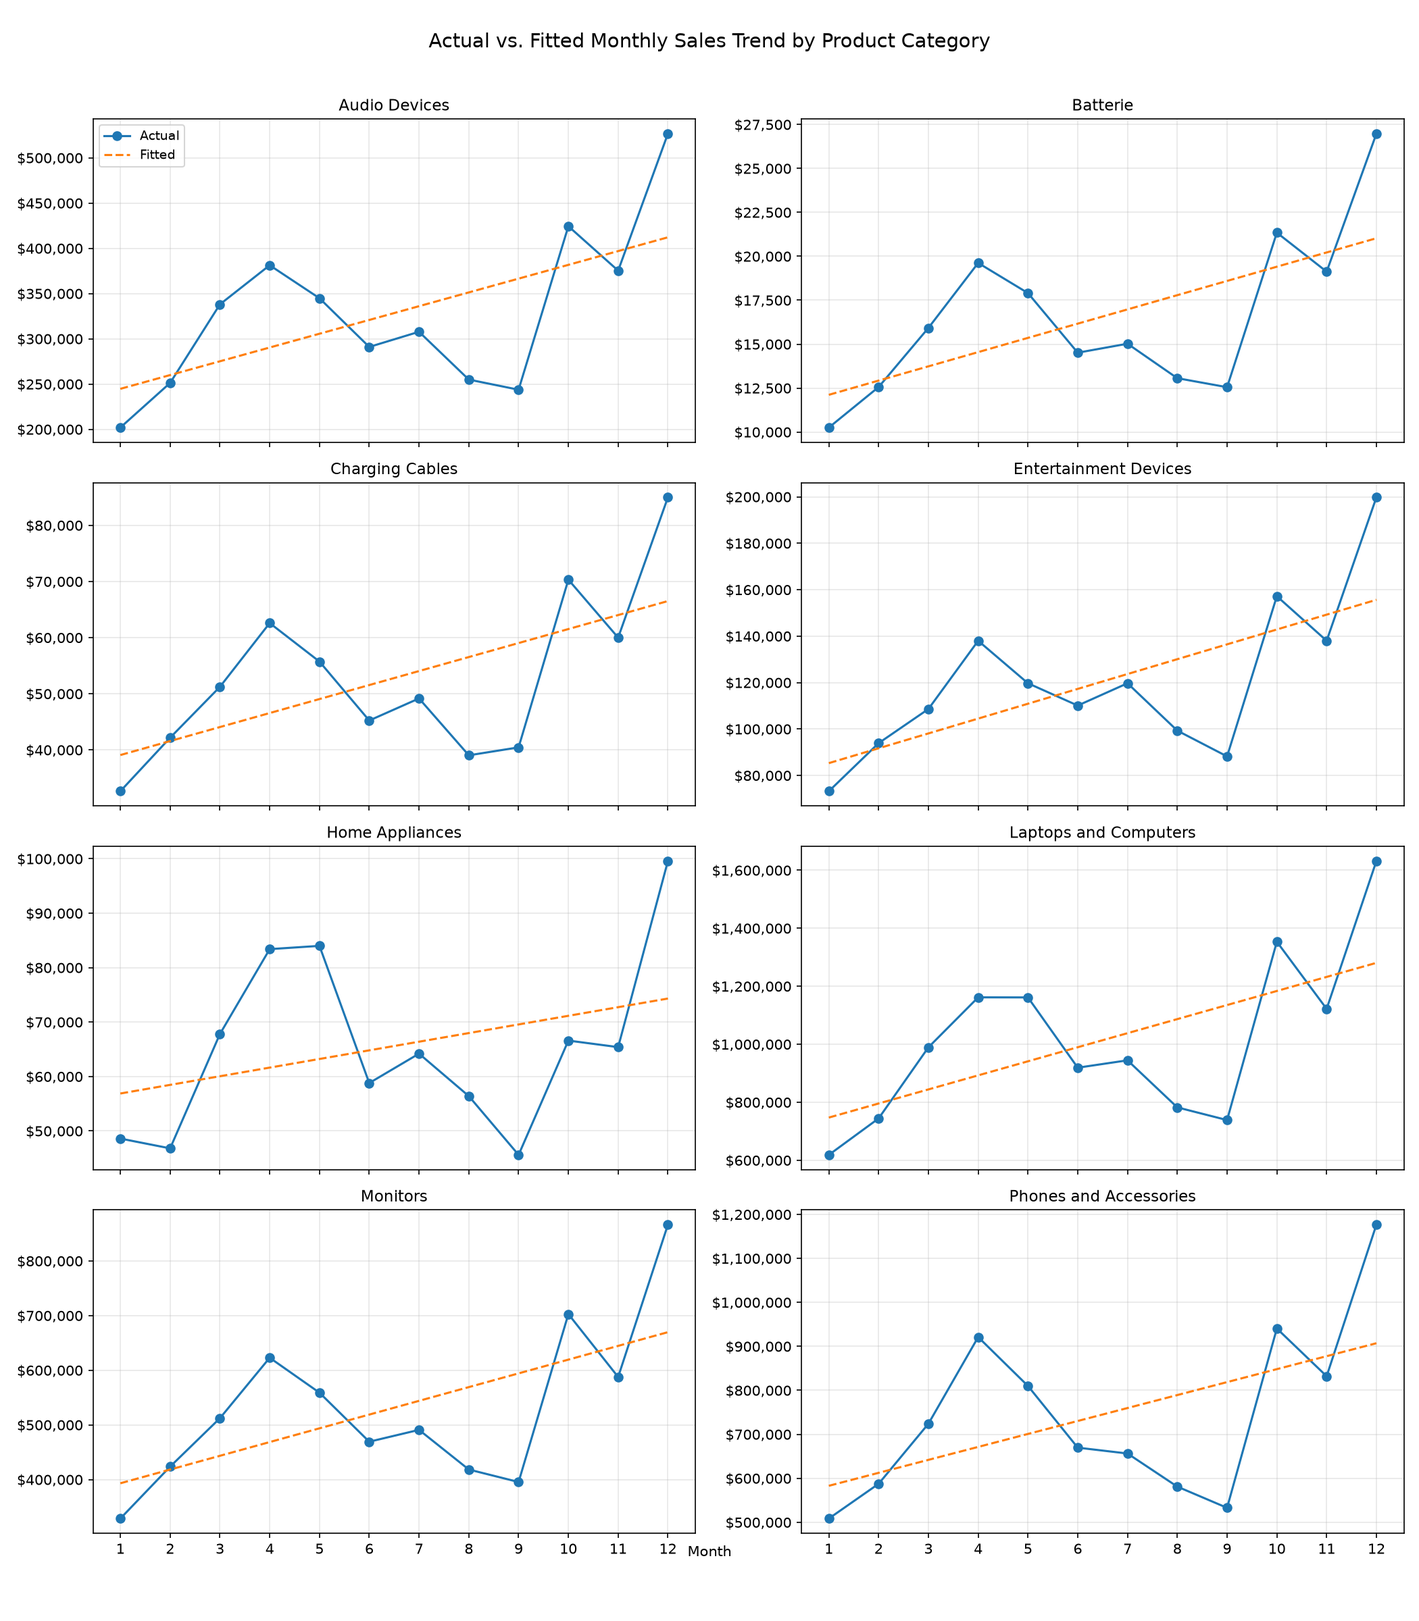
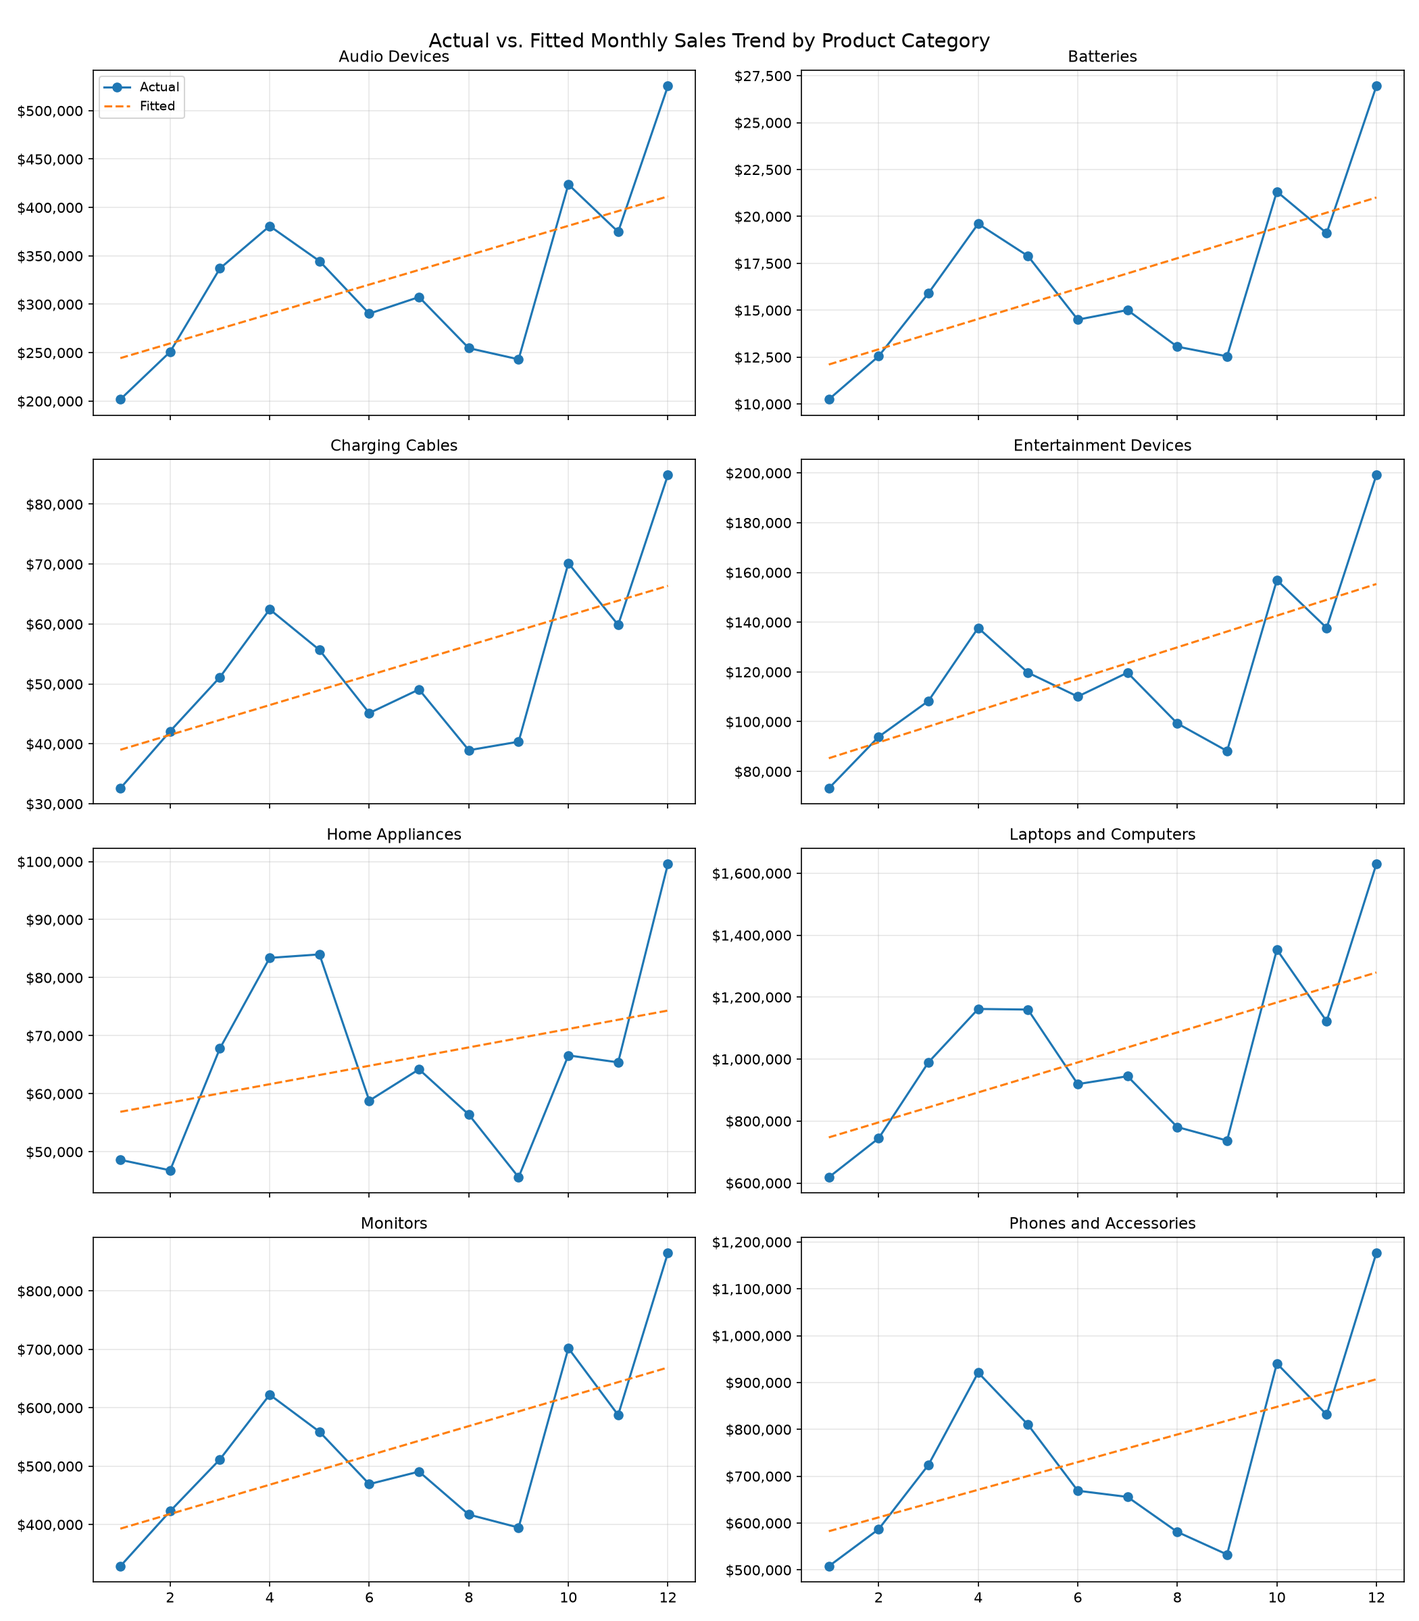
Refactor trend helpers, data-quality report, seasonality check, flake8, README results

diff --git a/tests/test_sales_analysis.py b/tests/test_sales_analysis.py
@@ -98,8 +98,7 @@ def test_filter_by_city(clean_df):
 
 
 def _make_trend_test_rows():
-    """Three months of data for two categories, trending in opposite directions,
-    to test monthly_category_trends:
+    """Three months of data for two categories, trending in opposite directions, to test monthly_category_trends:
     - Laptops: Sales rising 500, 1000, 1500 (positive slope)
     - Batteries: Sales falling 300, 200, 100 (negative slope)
     """
@@ -144,8 +143,7 @@ def test_monthly_category_trends(trend_df):
 @pytest.fixture
 def sample_csv(tmp_path):
     """Writes a small CSV to disk and returns its path.
-    run_full_analysis reads this instead of 'Sales Data.csv' so this test never touches
-    kagglehub or the network.
+    run_full_analysis reads this instead of 'Sales Data.csv' so this test never touches kagglehub or the network.
     """
     rows = [
         {
@@ -259,8 +257,7 @@ def boundary_orders_df():
 
 
 def test_filter_high_value_orders_boundary(boundary_orders_df):
-    """Edge case: the threshold is (Sales > 500), so an order of exactly $500
-    must be excluded, while $500.01 is kept."""
+    """Edge case: the threshold is (Sales > 500), so an order of exactly $500 must be excluded, while $500.01 is kept."""
     high_value = filter_high_value_orders(boundary_orders_df, threshold=500)
 
     assert list(high_value["Order ID"]) == [3]
@@ -308,8 +305,8 @@ def test_empty_dataframe(empty_raw_df):
 
 def test_clean_data_fixes_category_typo_and_drops_duplicates(raw_df):
     """The raw data spells one category "Batterie"; cleaning should fix it.
-    An exact duplicate row (same line item recorded twice) should be dropped,
-    even though its leftover "Unnamed: 0" index value differs."""
+    An exact duplicate row (same line item recorded twice) should be dropped, even though its leftover "Unnamed: 0" index value differs.
+    """
     raw = raw_df.copy()
     raw.loc[1, "Product Category"] = "Batterie"
     duplicate = raw.iloc[[0]].copy()
@@ -369,8 +366,7 @@ def test_data_quality_report(messy_raw_df):
 
 
 def test_seasonality_check_separates_holiday_spike():
-    """Flat sales all year plus a December spike: the all-months trend looks
-    like growth, but excluding December the slope is ~0."""
+    """Flat sales all year plus a December spike: the all-months trend looks like growth, but excluding December the slope is ~0."""
     flat = [
         {"Product Category": "Monitors", "Month": m, "Sales": 1000}
         for m in range(1, 12)

diff --git a/sales_analysis.py b/sales_analysis.py
@@ -18,12 +18,6 @@ from sklearn.linear_model import LinearRegression
 # Format of "Order Date" in the raw Kaggle CSV (day-month-year hour:minute)
 DATE_FORMAT = "%d-%m-%Y %H:%M"
 
-# Known typos in the raw "Product Category" column -> corrected name
-CATEGORY_FIXES = {"Batterie": "Batteries"}
-
-# Holiday month(s) excluded in the seasonality check (December = 12)
-HOLIDAY_MONTHS = (12,)
-
 
 # ---------------------------------------------------------------------------
 # Loading, cleaning, data quality
@@ -98,7 +92,10 @@ def clean_data(df):
     # "05-12-2019" from being misread as May 12 instead of 5 December.
     df["Order Date"] = pd.to_datetime(df["Order Date"], format=DATE_FORMAT)
     df["City"] = df["City"].str.strip()
-    df["Product Category"] = df["Product Category"].str.strip().replace(CATEGORY_FIXES)
+    # the raw data misspells one category as "Batterie"
+    df["Product Category"] = (
+        df["Product Category"].str.strip().replace({"Batterie": "Batteries"})
+    )
     return df
 
 
@@ -209,11 +206,12 @@ def monthly_category_trends_extended(df):
     )
 
 
-def seasonality_check(df, exclude_months=HOLIDAY_MONTHS):
+def seasonality_check(df, exclude_months=(12,)):
     """Is each category's growth real, or just the holiday spike?
 
-    Refits the Sales ~ Month trend with and without the holiday month(s) and
-    reports R^2, so a reader can see how much of the "growth" December explains.
+    Refits the Sales ~ Month trend with and without the holiday month(s)
+    (December by default) and reports R^2, so a reader can see how much of the
+    "growth" December explains.
     """
     monthly = _monthly_by_category(df)
     results = []

diff --git a/README.md b/README.md
@@ -1,44 +1,102 @@
 [![Tests](https://github.com/QTTN1/IDS_706_dpf_demo/actions/workflows/tests.yml/badge.svg)](https://github.com/QTTN1/IDS_706_dpf_demo/actions/workflows/tests.yml)
 
-My data engineering project using pandas to explore a sales dataset from Kaggle.
+# Which product categories are actually growing?
+
+An analysis of one year of e-commerce electronics sales (Kaggle), built as a tested, linted, containerized Python project.
+
+## Main Questions:
+
+1. Which categories bring in the revenue, and which bring in just order volume?
+2. Which categories are growing each month (linear trend of sales, orders, and average order value)?
+3. Is that growth real, or mostly the holiday spike?
+
+## Dataset
+
+[Sales Dataset (E-Commerce Sales)](https://www.kaggle.com/datasets/naofilahmad/sales-datset-product-sample) from Kaggle: ~186k order line items, 8 product categories, 9 US cities, 12 months of 2019. 
 
 ## Setup
 
 ```
-pip install -r requirements.txt
+pip install -r requirements.txt     # Python 3.12; versions are pinned for reproducibility
+python sales_analysis.py            # downloads the data, prints all results, saves plots to output/
+pytest tests/ -v                    # run the tests
 ```
 
-(Python 3.12. I use a conda env, but any environment works as long as `requirements.txt` is installed.)
+Or with Docker, no Python setup needed (see [Docker](#docker)).
 
-Then open `Week2_Mini_Assignment.ipynb` and run all the cells -- it downloads the dataset automatically with kagglehub, so no manual download needed. (To run the tests instead, see the Testing & CI section below.)
+`Week2_Mini_Assignment.ipynb` is the original exploratory notebook. `sales_analysis.py` is the cleaned-up, tested version.
 
-## Dataset
+## Project structure
 
-[Sales Dataset (E-Commerce Sales)](https://www.kaggle.com/datasets/naofilahmad/sales-datset-product-sample) from Kaggle. ~186k orders, 8 product categories, 9 cities, 1 year (12 months) of data.
+```
+sales_analysis.py          # all analysis code (load, quality report, clean, summarize, trend models, plots)
+tests/                     # pytest tests + screenshots
+conftest.py                # lets tests import sales_analysis from any directory
+requirements.txt           # pinned dependencies
+Dockerfile                 # container for running the analysis or tests
+.flake8                    # flake8 (linting) config
+.github/workflows/         # CI: black + flake8 + pytest on every push
+Week2_Mini_Assignment.ipynb  # original exploration
+```
 
-## What I did
+## Data cleaning
 
-**Import + Inspect**
+`data_quality_report()` checks the **raw** data before anything is changed, and `clean_data()` applies the fixes. Running the script prints the report.
 
-Loaded the CSV with pandas, used `.head()`, `.info()`, `.describe()` to investigate, checked for missing values/duplicates (there weren't any). Dropped an extra blank column, and transformed Order Date to an actual date.
+| Check                     | Result                                                                                                | Treatment                                                                                                                                                                                             |
+| ------------------------- | ----------------------------------------------------------------------------------------------------- | ----------------------------------------------------------------------------------------------------------------------------------------------------------------------------------------------------- |
+| Missing values            | 0                                                                                                     | None found, nothing to fill or drop.                                                                                                                                                                  |
+| Exact duplicate rows      | 264                                                                                                   | Dropped, since the same line item recorded twice would double-count revenue (185,950 -> 185,686 rows). The CSV's leftover index column makes every row look unique, so it's dropped before checking. |
+| Sales != Quantity x Price | 0                                                                                                     | None found, so the Sales column can be trusted.                                                                                                                                                       |
+| Category renamed          | "Batterie"                                                                                            | Renamed to "Batteries" so it groups and reads correctly in charts.                                                                                                                                    |
+| Order Date                | day-first strings, e.g. 30-12-2019 00:01                                                              | Parsed with an explicit format, so 05-12-2019 is 5 Dec, not 12 May.                                                                                                                                   |
+| City                      | stray whitespace, e.g. " Boston"                                                                      | Stripped.                                                                                                                                                                                             |
+| Sales outliers            | 7,617 rows (~4%), mostly Charging Cables (3,332), Batteries (2,153), and Phones & Accessories (2,076) | Kept. Outliers are measured within each category (1.5 x IQR), because a $1,700 laptop is normal while a $1,700 battery order is not. Removing outliers would understate revenue.                    |
 
-**Filtering + Grouping**
+## Analysis
 
-Additional dataset investigation, and setup for the ML algorithm.
+**Revenue vs. volume.** Grouped by category: average price, total quantity, total sales, and line-item count (`category_summary`).
 
-I filtered things like high-value orders (Sales > $500) and orders from specific cities. Used `groupby()` to get avg price/total sales per category, and avg sale amount by time of day, and total sale by month.
+**Trend model.** Aggregated sales per category per month, then fit a linear regression (Sales ~ Month) per category. The slope is the average change in monthly revenue ($/month). I did the same for order count and average order value, since a category can grow in orders without growing in revenue, or vice versa.
 
-**ML - Linear Regression**
+**Visualizations** (regenerated in `output/` on every run):
 
-Grouped sales by month per category, then fit a linear regression (Sales ~ Month) per category to see which ones are trending up. I also did the same for order count and average order value, since a category could be growing in orders without growing much in revenue, or vice versa.
+- `all_categories_trend.png`: actual vs. fitted monthly sales for every category
+- `trend_scatter.png`: order-count trend vs. sales trend, colored by average-order-value trend, so all three show up in one chart
 
-Results: every category trended up overall, and followed a similar monthly trend. Laptops and Computers had the strongest revenue trend, and the value per order was also increasing. Batteries, Charging Cables, and Audio Devices had a lot more orders each month but barely moved revenue, likely since those are cheaper items.
+![Monthly trend by category](all_categories_trend.png)
 
-**Visualization**
+![Revenue growth vs order growth](trend_scatter.png)
 
-Plots showing monthly, and overall trend of sales for each category(all_category_trend.png). Scatter plot of order count trend vs. sales trend, colored by avg order value trend, so all three show up in one visualization(trend_scatter).
+### Seasonality check
 
-## Testing & CI
+The trend lines all point up, but electronics sales spike in December. A single holiday month at the end of the year can tilt a 12-point regression line upward on its own. `seasonality_check()` refits each trend **without December** and reports R^2 for both fits:
+
+- if the slope stays positive without December, the category is really growing
+- if it collapses toward 0, the "growth" was mostly the holiday rush
+
+| Category               | Slope, all months ($/month) | Slope without December | Drop | R^2 (all / without Dec) |
+| ---------------------- | --------------------------- | ---------------------- | ---- | ----------------------- |
+| Laptops and Computers  | 48,393                      | 29,272                 | -40% | 0.36 / 0.19             |
+| Phones and Accessories | 29,495                      | 14,779                 | -50% | 0.29 / 0.10             |
+| Monitors               | 25,088                      | 14,376                 | -43% | 0.37 / 0.19             |
+| Audio Devices          | 15,187                      | 8,964                  | -41% | 0.37 / 0.19             |
+| Entertainment Devices  | 6,368                       | 3,976                  | -38% | 0.45 / 0.29             |
+| Charging Cables        | 2,488                       | 1,478                  | -41% | 0.37 / 0.19             |
+| Home Appliances        | 1,586                       | 207                    | -87% | 0.12 / 0.003            |
+| Batteries              | 809                         | 485                    | -40% | 0.39 / 0.21             |
+
+December alone accounts for about 40-50% of every category's "growth". Every category except Home Appliances still grows meaningfully  without it, so the growth is real, just smaller than the straight trend line suggests.
+
+Key findings
+
+- **Revenue is concentrated in expensive categories.** Laptops & Computers are ~35% of revenue from ~5% of line items; Phones add another ~26%.
+- **Volume doesn't equal revenue.** Batteries, Charging Cables, and Audio Devices are ~71% of line items but only ~14% of revenue.
+- **Every category trended up**, led by Laptops & Computers (~$48.4k/month), then Phones (~$29.5k/month) and Monitors (~$25.1k/month).
+- **Laptops are growing in value, not just volume.** Their average order value trend is the highest (~+$1.32/month), while cheaper accessories grow in order count with flat order value.
+- **About 40-50% of the "growth" is just December.** Without the holiday month, every category still grows except Home Appliances, which is flat. Phones lose the most (-50%), so their growth depends the most on the holidays.
+
+Testing & CI
 
 I had to move the notebook's process into `sales_analysis.py` and break it down again, into functions, before I could test it.
 
@@ -50,6 +108,9 @@ Tests are in `tests/test_sales_analysis.py`, built with small made-up data (pyte
 - `filter_by_city`: returns only the requested city
 - `monthly_category_trends`: slopes match hand-calculated values (+$500/month, -$100/month), sorted fastest-growing first
 - `run_full_analysis`: whole pipeline from a CSV file, to check everything still connects correctly
+- `clean_data` fixes the `"Batterie"` typo and drops exact duplicate rows
+- `data_quality_report`: counts missing values, duplicates, Sales/price mismatches, and per-category outliers on a small "messy" dataset with exactly one of each problem
+- `seasonality_check`: flat sales plus a December spike looks like growth, but the slope without December is ~0
 
 **Edge cases**
 
@@ -65,7 +126,7 @@ Run tests with:
 pytest tests/ -v
 ```
 
-All 7 tests passing locally:
+Tests passing locally (screenshot taken at 7 tests, before the data-quality and seasonality tests were added; there are 10 now):
 
 ![pytest results](tests/tests_pass_screenshots/pytest_results_edge_cases.png)
 
@@ -73,20 +134,68 @@ All 7 tests passing locally:
 
 1. installs `requirements.txt`
 2. checks formatting with `black --check` (fails if code isn't formatted)
-3. runs the tests with pytest
+3. lints with `flake8` (config in `.flake8`)
+4. runs the tests with pytest
 
-To format locally before pushing: `black sales_analysis.py conftest.py tests/`
+To format and lint locally before pushing: `black sales_analysis.py conftest.py tests/` and `flake8 sales_analysis.py conftest.py tests/`
 
 Passing on GitHub:
 
 ![GitHub Actions passing](tests/tests_pass_screenshots/github_actions_passing.png)
 
+## Docker
+
+The `Dockerfile` packages the code, tests, and pinned dependencies (`requirements.txt`) on top of `python:3.12-slim`, so the analysis runs the same on any machine with Docker -- no Python or conda setup needed.
+
+```bash
+docker build -t sales-analysis .                                  # build the image
+docker run --rm -v "$PWD/output:/app/output" sales-analysis       # run the analysis, plots saved to ./output
+docker run --rm sales-analysis pytest tests/ -v                   # run the tests inside the container
+```
+
+(In Git Bash on Windows, use `MSYS_NO_PATHCONV=1 docker run --rm -v "$(pwd -W)/output:/app/output" sales-analysis` so Git Bash doesn't rewrite the paths.)
+
+The dataset is public, so the container downloads it from Kaggle without loging in.
+
+**What I learned**
+
+- An *image* is the saved recipe (OS + Python + packages + code); a *container* is one run of it. Containers stop when their command finishes (`docker ps` vs `docker ps -a`).
+- Copying `requirements.txt` and installing packages *before* copying the code means code edits don't trigger a reinstall -- rebuilds went from.
+- Files a container writes stay inside it unless you mount a volume (`-v`), which is why plots are saved to `output/`.
+- Pinning package versions to requirments matters: unpinned `pandas` would install whatever is newest on the day the image is built.
+
+Image build:
+
+![Docker build](docker_screenshots/docker_build.png)
+
+Container running the tests and the analysis:
+
+![Docker run](docker_screenshots/docker_run.png)
+
+## Refactoring
+
+**What I changed**
+
+- **Removed duplicated code:** the "group by category and month, then fit a regression per category" logic was copied three times (`monthly_category_trends`, `monthly_category_trends_extended`, `plot_category_trend_grid`). I added two helpers: `_monthly_by_category()` (aggregation) and `_fit_line()` (fit + slope + R^2 + fitted values). The new `seasonality_check()` reuses both instead of making a fourth copy.
+- **Clarified var names:** `t_quantity`/`t_sales` -> `total_quantity`/`total_sales`
+- **Named the date format:** `DATE_FORMAT` at the top of the file, with a comment on why it's day-first
+- **Structure and docs:** grouped the file into sections (loading/cleaning, summaries, trend models, plots, pipeline), fixed docstring typos, and added comments that explain *why* (e.g. why outliers are kept).
+- **Tooling:** formatted with `black` and linted with `flake8`, both run in CI.
+
+**Why:** with the loop copied three times, any change (like the empty-data crash fix) had to be made in three places. Now there's only one place to change and test.
+
+**How I verified it still works:** all 7 existing tests pass with the refactored code, 3 new tests cover the new functions, the full pipeline re-runs in Docker, and CI (black + flake8 + pytest) passes on GitHub.
+
+Before/after diff on GitHub:
+
+![Refactor commit diff](docs/refactor_diff.png)
+
 ## Also in this repo
 
 (Not relevant to sales analysis portion)
 
-`rust_vs_python_intro.ipynb`  (Rust ownership practice)
+`rust_vs_python_intro.ipynb` (Rust ownership practice)
 
-`movielens_dataframe_engines_simple.ipynb` (data engineering  walkthrough)
+`movielens_dataframe_engines_simple.ipynb` (data engineering walkthrough)
 
-Note: Refractor, beacuse even good code needs a spa day 🛁 !
+Note: Refactor, because even good code needs a spa day 🛁 !
